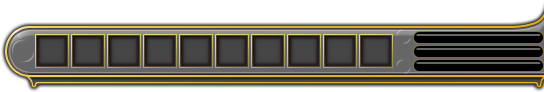
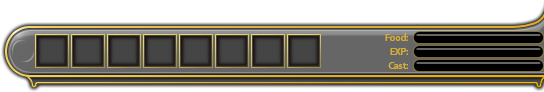
Add of levels and bars on inventory

Changed region(s): [[0.5938, 0.3696, 0.75, 0.7609]]

diff --git a/Zappy Client/Zappy Client/Core/Windows/Inventory.cs b/Zappy Client/Zappy Client/Core/Windows/Inventory.cs
@@ -21,17 +21,72 @@ namespace Zappy_Client.Core
 {
     public class Inventory : Container
     {
+        #region NESTED_CLASSES
+
+        private class Bloc
+        {
+            #region FIELDS
+
+            public Texture2D Tex { get; set; }
+            public Vector2 Rec { get; set; }
+            public ControlState State { get; set; }
+
+            #endregion
+
+            #region CONSTRUCTORS
+
+            public Bloc(Texture2D texture, Vector2 rectangle, ControlState state)
+            {
+                this.Tex = texture;
+                this.Rec = rectangle;
+                this.State = state;
+            }
+
+            public Bloc(Texture2D texture, Vector2 rectangle)
+            {
+                this.Tex = texture;
+                this.Rec = rectangle;
+                this.State = ControlState.Normal;
+            }
+
+            public Bloc(Texture2D texture, ControlState state)
+            {
+                this.Tex = texture;
+                this.Rec = new Vector2(0, 0);
+                this.State = state;
+            }
+
+            public Bloc(Texture2D texture)
+            {
+                this.Tex = texture;
+                this.Rec = new Vector2(0, 0);
+                this.State = ControlState.Normal;
+            }
+
+            #endregion
+
+            #region METHODS
+
+            public Rectangle getOffset()
+            {
+                if (this.State == ControlState.Normal)
+                    return new Rectangle(32, 0, 32, 32);
+                return new Rectangle(0, 0, 32, 32);
+            }
+
+            #endregion
+        }
+
+
+        #endregion
+
         #region FIELDS
 
         // Textures
-        private Texture2D ItemsBg { get; set; }
-        private Texture2D ItemsSlots { get; set; }
-        private Texture2D LevelsBar { get; set; }
-
-        // Textures position
-        private Vector2 ItemsBgRec { get; set; }
-        private Vector2 ItemsSlotsRec { get; set; }
-        private Vector2 LevelsBarRec { get; set; }
+        private Bloc ItemsBg { get; set; }
+        private Bloc ItemsSlots { get; set; }
+        private Bloc LevelsBar { get; set; }
+        private Bloc []Levels { get; set; }
 
         // Dynamic items
         private ProgressBar Food { get; set; }
@@ -62,29 +117,35 @@ namespace Zappy_Client.Core
         public override void Initialize()
         {
             // Loading and initializing static images
-            this.ItemsSlots = this.Engine.Content.Load<Texture2D>("Theme//Inventory//itemsSlots.png");
-            this.LevelsBar = this.Engine.Content.Load<Texture2D>("Theme//Inventory//levelsBar.png");
-            this.ItemsBg = this.Engine.Content.Load<Texture2D>("Theme//Inventory//itemsBg.png");
-            this.Width = this.ItemsBg.Width + this.LevelsBar.Width;
-            this.Height = this.ItemsBg.Height;
+            this.ItemsSlots = new Bloc(this.Engine.Content.Load<Texture2D>("Theme//Inventory//itemsSlots.png"));
+            this.LevelsBar = new Bloc(this.Engine.Content.Load<Texture2D>("Theme//Inventory//levelsBar.png"));
+            this.ItemsBg = new Bloc(this.Engine.Content.Load<Texture2D>("Theme//Inventory//itemsBg.png"));
+            this.Levels = new Bloc[8];
+            this.Width = this.ItemsBg.Tex.Width + this.LevelsBar.Tex.Width;
+            this.Height = this.ItemsBg.Tex.Height;
             this.X = 0;
             this.Y = 0;
-            this.LevelsBarRec = new Vector2(Zappy.Width / 2 - this.Width / 2, Zappy.Height - this.LevelsBar.Height);
-            this.ItemsBgRec = new Vector2(this.LevelsBarRec.X + this.LevelsBar.Width, this.LevelsBarRec.Y - this.LevelsBar.Height + 14);
-            this.ItemsSlotsRec = new Vector2(this.LevelsBarRec.X + this.LevelsBar.Width, this.LevelsBarRec.Y - this.LevelsBar.Height + 14);
+            this.LevelsBar.Rec = new Vector2(Zappy.Width / 2 - this.Width / 2, Zappy.Height - this.LevelsBar.Tex.Height);
+            this.ItemsBg.Rec = new Vector2(this.LevelsBar.Rec.X + this.LevelsBar.Tex.Width, this.LevelsBar.Rec.Y - this.LevelsBar.Tex.Height + 14);
+            this.ItemsSlots.Rec = new Vector2(this.LevelsBar.Rec.X + this.LevelsBar.Tex.Width, this.LevelsBar.Rec.Y - this.LevelsBar.Tex.Height + 14);
+            for (Int32 i = 0; i < 8; i++)
+            {
+                this.Levels[i] = new Bloc(this.Engine.Content.Load<Texture2D>("Theme//Inventory//ButtNum" + (i + 1) + ".png"));
+                this.Levels[i].Rec = new Vector2(this.LevelsBar.Rec.X + 36 + (i * 36), this.LevelsBar.Rec.Y + 35);
+            }
 
             // Loading and initializing dynamic items
             this.Food = new ProgressBar(this.Engine, "Food",
-                Int32.Parse(this.LevelsBarRec.X.ToString()) + 413,
-                Int32.Parse(this.LevelsBarRec.Y.ToString()) + 31,
+                Int32.Parse(this.LevelsBar.Rec.X.ToString()) + 413,
+                Int32.Parse(this.LevelsBar.Rec.Y.ToString()) + 31,
                 131, ProgressBarColor.Green, 100);
             this.Xp = new ProgressBar(this.Engine, "Xp",
-                Int32.Parse(this.LevelsBarRec.X.ToString()) + 413,
-                Int32.Parse(this.LevelsBarRec.Y.ToString()) + 45,
+                Int32.Parse(this.LevelsBar.Rec.X.ToString()) + 413,
+                Int32.Parse(this.LevelsBar.Rec.Y.ToString()) + 45,
                 131, ProgressBarColor.Blue, 50);
             this.Cast = new ProgressBar(this.Engine, "Cast",
-                Int32.Parse(this.LevelsBarRec.X.ToString()) + 413,
-                Int32.Parse(this.LevelsBarRec.Y.ToString()) + 59,
+                Int32.Parse(this.LevelsBar.Rec.X.ToString()) + 413,
+                Int32.Parse(this.LevelsBar.Rec.Y.ToString()) + 59,
                 131, ProgressBarColor.Red, 60);
             this.AddControl(this.Food);
             this.AddControl(this.Xp);
@@ -106,10 +167,40 @@ namespace Zappy_Client.Core
         /// <param name="spriteBatch"></param>
         public override void Draw(SpriteBatch spriteBatch)
         {
-            spriteBatch.Draw(this.ItemsBg, this.ItemsBgRec, Color.White);
-            spriteBatch.Draw(this.LevelsBar, this.LevelsBarRec, Color.White);
-            spriteBatch.Draw(this.ItemsSlots, this.ItemsSlotsRec, Color.White);
+            spriteBatch.Draw(this.ItemsBg.Tex, this.ItemsBg.Rec, Color.White);
+            spriteBatch.Draw(this.LevelsBar.Tex, this.LevelsBar.Rec, Color.White);
+            spriteBatch.Draw(this.ItemsSlots.Tex, this.ItemsSlots.Rec, Color.White);
+            for (Int32 i = 0; i < 8; i++)
+            {
+                spriteBatch.Draw(this.Levels[i].Tex, this.Levels[i].Rec, this.Levels[i].getOffset(), Color.White);
+            }
             base.Draw(spriteBatch);
+        }
+
+        /// <summary>
+        /// Update a control's value
+        /// </summary>
+        /// <param name="control">control name</param>
+        /// <param name="value">control new value</param>
+        public void updateControl<T>(String control, Object value)
+        {
+            foreach (Control item in this.Controls)
+            {
+                if (item.Name == control)
+                {
+                    if (typeof(T) == typeof(ProgressBar))
+                    {
+                        (item as ProgressBar).Value = Convert.ToInt32(value);
+                        return;
+                    }
+                    else if (typeof(T) == typeof(Label))
+                    {
+                        (item as Label).Text = Convert.ToString(value);
+                        return;
+                    }
+                }
+            }
+            throw new Exception("Unknown control name \"" + control + "\" in container \"" + this.Name + "\".");
         }
 
         #endregion

diff --git a/Zappy Client/Zappy Client/Interface/UI.cs b/Zappy Client/Zappy Client/Interface/UI.cs
@@ -197,6 +197,22 @@ namespace Zappy_Client.Interface
             }
         }
 
+
+        /// <summary>
+        /// Get a container from the UI with its name
+        /// </summary>
+        /// <param name="name">Container's name</param>
+        /// <returns>Selected container</returns>
+        public Container GetContainer(string name)
+        {
+            foreach (Container item in this.Contrainers)
+            {
+                if (item.Name == name)
+                    return item;
+            }
+            throw new Exception("Unknown container name \"" + name + "\".");
+        }
+
         #endregion
     }
 }
